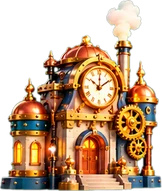
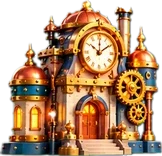
機械星：拎走所有建築上面嘅煙
Claude-Session: https://claude.ai/code/session_01E2utfFQBUZUAHLnSXfgdjb

diff --git a/lib/themes.ts b/lib/themes.ts
@@ -88,11 +88,11 @@ export const MECH: Theme = {
     boatAspect: 1,
     gullAspect: 1,
     sizes: {
-      house: [[132, 154], [222, 275], [244, 386], [288, 465], [298, 560]],
-      factory: [[104, 98], [174, 170], [229, 284], [262, 370], [300, 478]],
-      steam: [[101, 134], [156, 221], [201, 337], [239, 452], [269, 560]],
+      house: [[132, 154], [222, 219], [244, 320], [288, 433], [298, 560]],
+      factory: [[104, 98], [174, 140], [229, 232], [262, 309], [300, 454]],
+      steam: [[95, 97], [156, 165], [201, 278], [239, 363], [269, 437]],
       power: [[100, 115], [177, 183], [218, 246], [253, 382], [300, 546]],
-      clock: [[56, 139], [162, 191], [203, 282], [240, 383], [300, 523]],
+      clock: [[56, 139], [162, 156], [203, 282], [240, 383], [300, 523]],
     },
   },
 };

diff --git a/public/sw.js b/public/sw.js
@@ -1,5 +1,5 @@
 // 大富翁 service worker: keeps the app shell and art so the board opens without a network.
-const CACHE = "dafuweng-v189";
+const CACHE = "dafuweng-v190";
 const SHELL = [
   "/",
   "/manifest.webmanifest",
